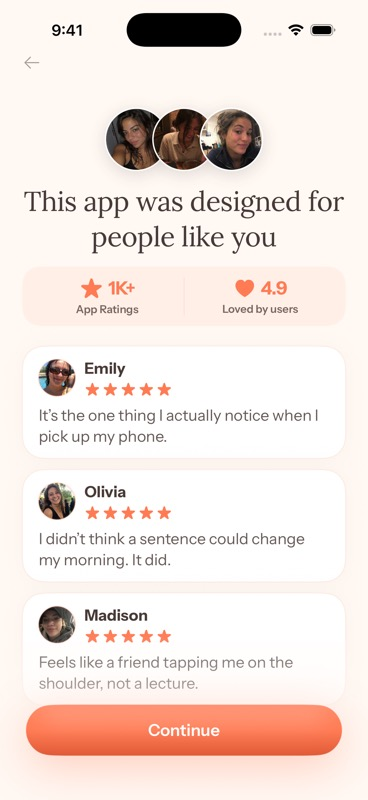
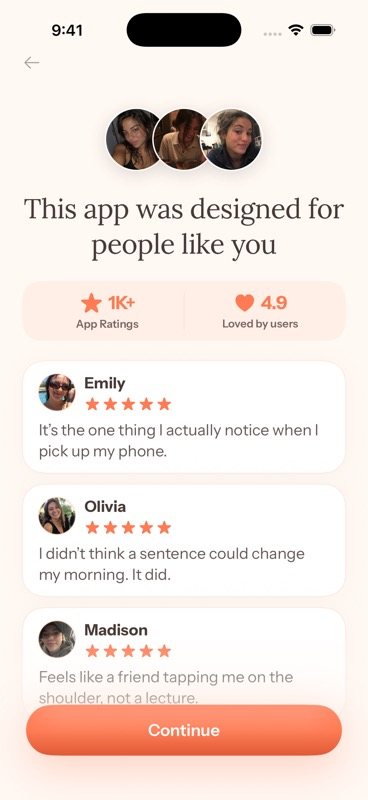
Update Glow review and team note previews

Changed region(s): [[0.0897, 0.4375, 0.8668, 0.875], [0.0598, 0.2188, 0.8071, 0.4375], [0.837, 0.2188, 0.9266, 0.2812]]

diff --git a/docs/native-paywall-analytics.md b/docs/native-paywall-analytics.md
@@ -15,7 +15,7 @@ New eligible installs use **80% testimonials + team note / 20% original sequence
 | `versy_reminder` | Versy reminder flow | 10% | Trial introduction → reminder timing → Versy paywall |
 | `versy_reminder_note` | Versy reminder flow + note | 40% | Testimonials → team note → Versy reminder flow |
 
-The two base flows remain 50/50. Both IAM and manifest-audio participate. The treatment restores the original `ReviewSupportScreen` layout (from before `41bdb49`): overlapping profile pictures, rating stats, and three portrait review cards, using Glow's current cream/orange styling. It is followed by a cream card headed “A note from the team,” localized in English, German and Spanish. Both new screens use Continue. The note includes Cancel anytime. Neither screen requests an App Store review or starts a purchase. Existing trial, reminder-choice, purchase, recovery and Weekly behavior stays with its base flow; the two Versy variants both retain View all plans.
+The two base flows remain 50/50. Both IAM and manifest-audio participate. The treatment restores the original `ReviewSupportScreen` layout (from before `41bdb49`): overlapping profile pictures, rating stats, and three portrait review cards, using Glow's current cream/orange styling. It is followed by a cream card headed “A note from the team,” localized in English, German and Spanish. Both new screens use Continue. Neither screen requests an App Store review or starts a purchase. Existing trial, reminder-choice, purchase, recovery and Weekly behavior stays with its base flow; the two Versy variants both retain View all plans.
 
 `GlowPaywallFlowAssignment` saves `onboarding_paywall_flow_v2` under `glow.onboarding.paywallFlow.v2.<environment>` and publishes scalar JSON as `gpf1_onboarding_paywall_flow_v2`. Schema remains `1`; allocation is `10_40_10_40` in the table's order. Records retain environment, variant, frozen language, randomized, assignedAt, updatedAt, optional viewedAt/completedAt, reminderLeadDays, initial priceVariant, and onboardingJourney. Timestamps are Unix milliseconds.
 
